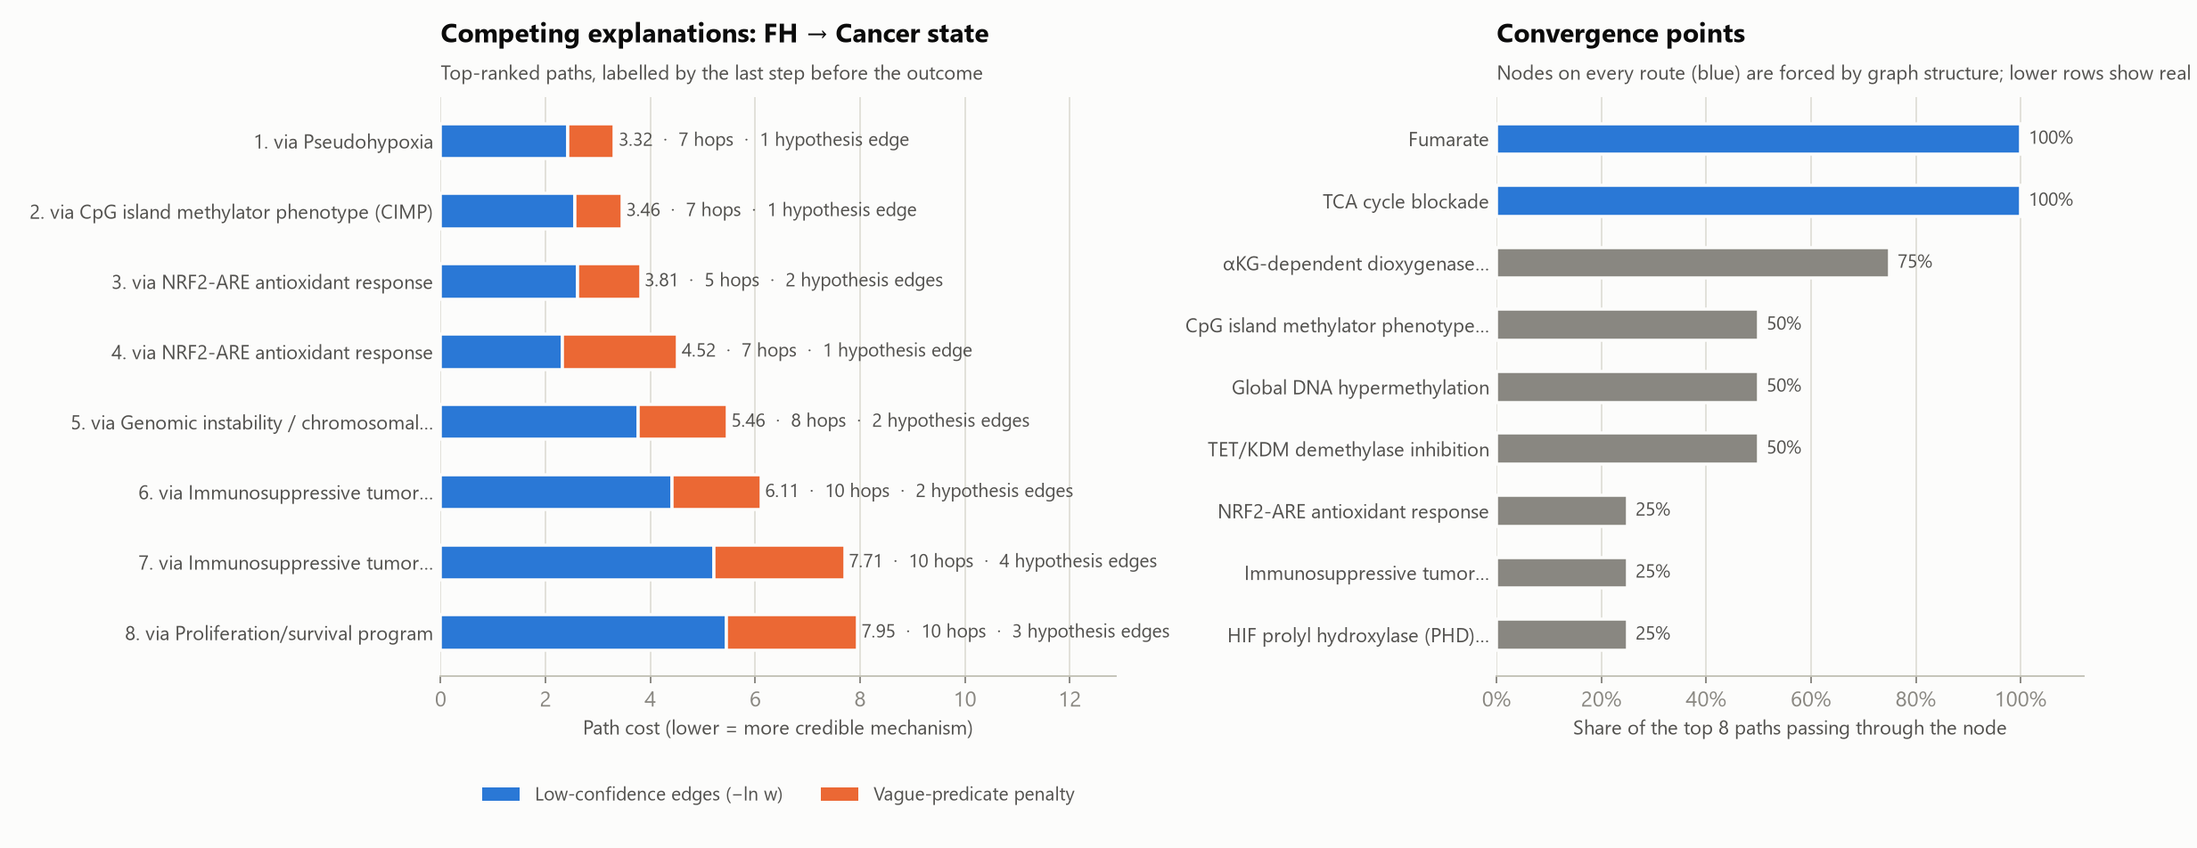
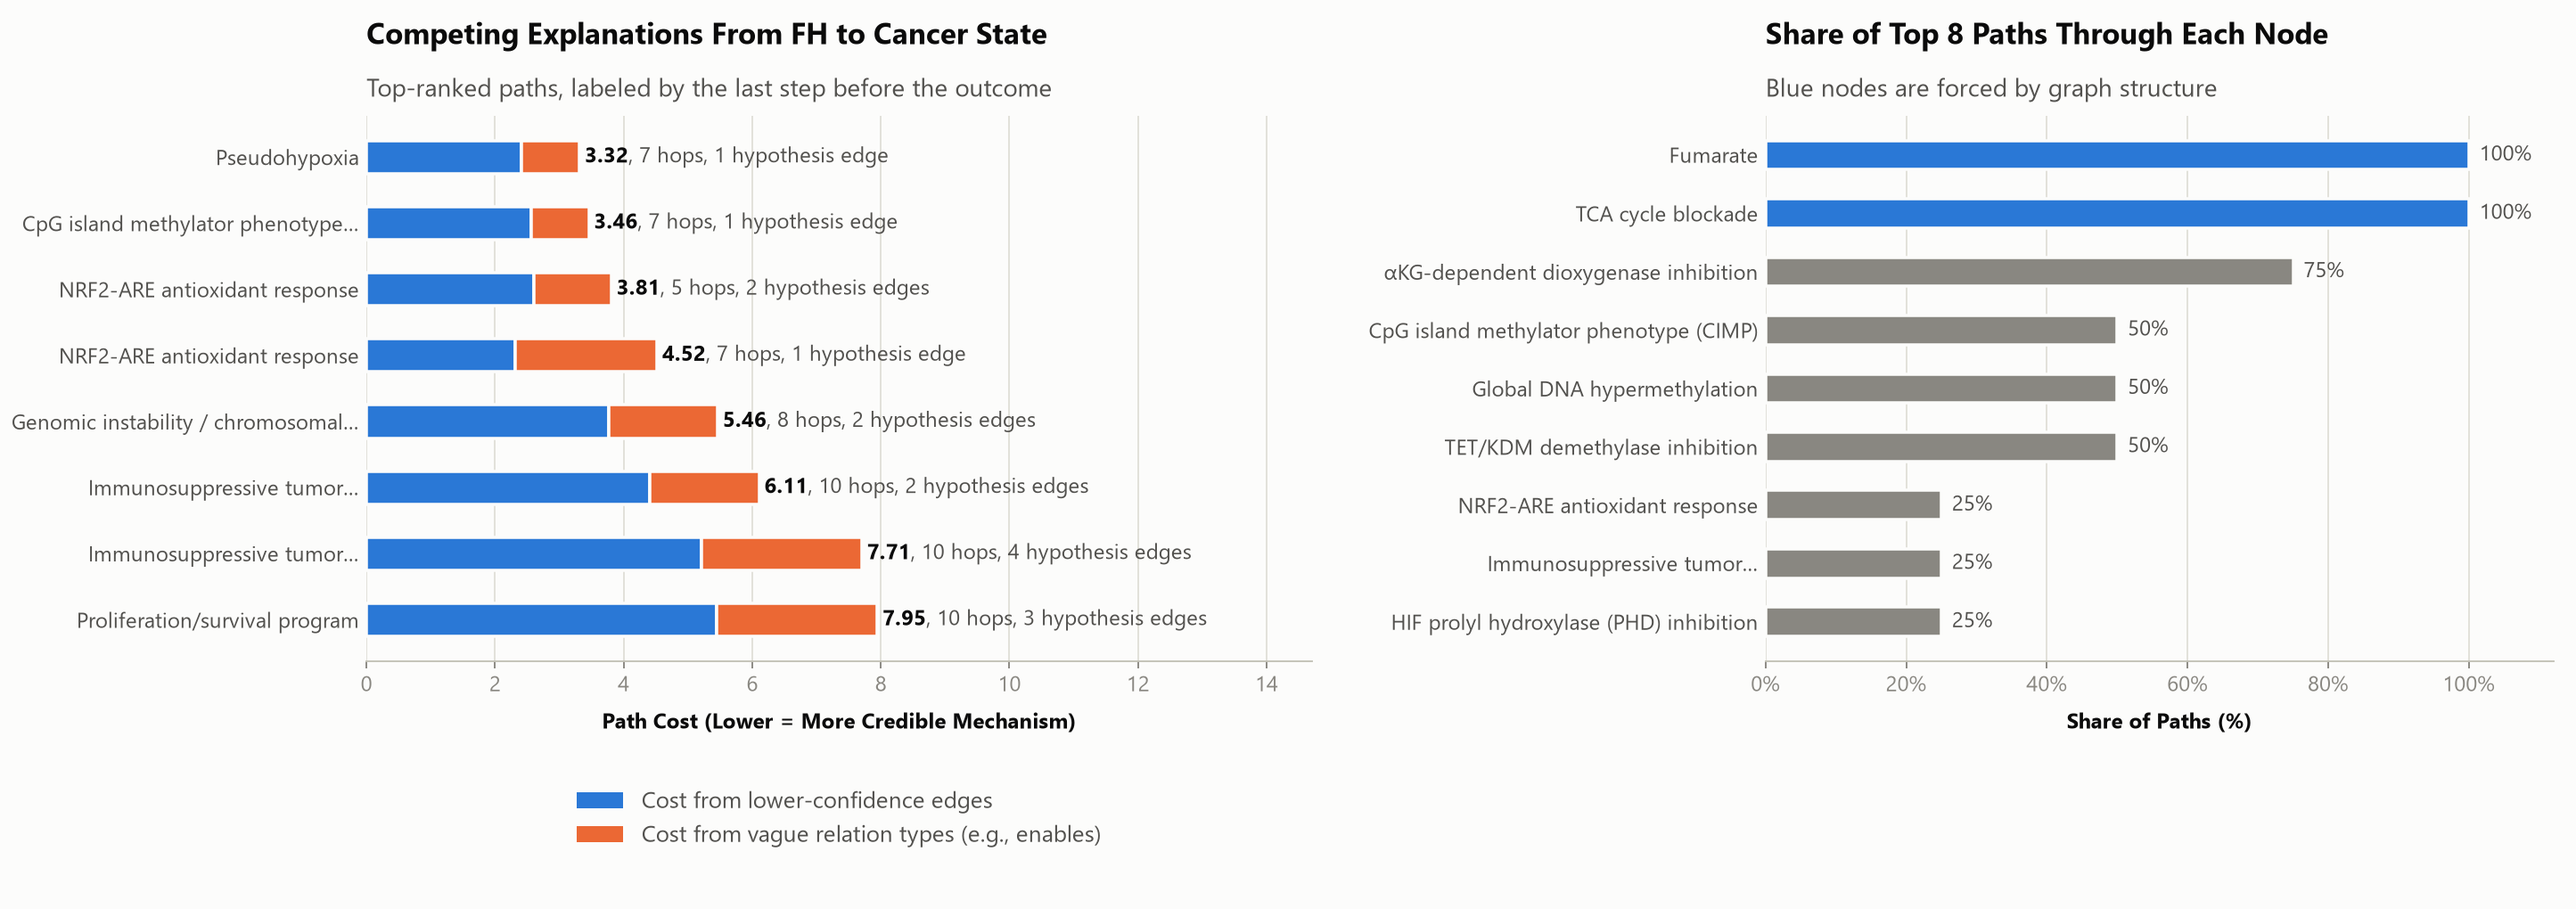
Larger figure text and clearer chart labels

diff --git a/src/fhrcc_mechanismkg/viz.py b/src/fhrcc_mechanismkg/viz.py
@@ -23,10 +23,11 @@ SURFACE, INK, INK2, MUTED, GRID, LINE = "#fcfcfb", "#0b0b0b", "#52514e", "#89878
 GROUP_COLOR = {"molecular": BLUE, "mechanism": AQUA, "phenotype": ORANGE}
 FONT = ["Segoe UI", "DejaVu Sans", "Arial"]
 
-# Type scale for panel headers: subheader is two sizes (pt) below the title, y labels four below
-TITLE_PT = 12.5
-SUBTITLE_PT = TITLE_PT - 2
-YLABEL_MIN_PT = TITLE_PT - 4  # y labels never go below this; larger existing sizes are kept
+# Type scale (pt) shared by every figure
+TITLE_PT = 14  # panel and figure titles, bold
+SUBTITLE_PT = 12  # subheaders, regular weight
+LABEL_PT = 10  # tick labels, annotations, axis titles (bold), node text
+LEGEND_PT = 11
 
 
 def _mpl():
@@ -44,9 +45,13 @@ def _mpl():
             "savefig.facecolor": SURFACE,
             "text.color": INK,
             "axes.edgecolor": LINE,
-            "axes.labelcolor": INK2,
+            "axes.labelcolor": INK,
+            "axes.labelsize": LABEL_PT,
+            "axes.labelweight": "bold",
             "xtick.color": MUTED,
             "ytick.color": INK2,
+            "xtick.labelsize": LABEL_PT,
+            "ytick.labelsize": LABEL_PT,
         }
     )
     return plt
@@ -63,6 +68,11 @@ def _edge_id(e) -> Tuple[str, str, str]:
     return (e.subject, e.predicate, e.object)
 
 
+def _panel_header(ax, title: str, subtitle: str) -> None:
+    ax.set_title(title, loc = "left", fontsize = TITLE_PT, fontweight = "bold", pad = 34)
+    ax.text(0, 1.035, subtitle, transform = ax.transAxes, fontsize = SUBTITLE_PT, color = INK2)
+
+
 def draw_overview(
     graph: Graph,
     out_path: str,
@@ -75,16 +85,16 @@ def draw_overview(
     from matplotlib.patches import FancyArrowPatch, FancyBboxPatch, Patch
 
     pos = layered_layout(graph)
-    sx, sy, bw, bh = 2.9, 1.15, 2.05, 0.66
+    sx, sy, bw, bh = 2.6, 1.02, 2.15, 0.68
     xy = {n: (p[0] * sx, -p[1] * sy) for n, p in pos.items()}
     xs = [p[0] for p in xy.values()]
     ys = [p[1] for p in xy.values()]
     width = max(xs) - min(xs) + bw + 1.0
-    height = (max(ys) - min(ys) + bh + 1.1) / 0.85  # axes occupy 85% of the figure height
+    height = (max(ys) - min(ys) + bh + 0.9) / 0.87  # axes occupy 87% of the figure height
 
     fig, ax = plt.subplots(figsize = (width, height))
     ax.set_xlim(min(xs) - bw / 2 - 0.5, max(xs) + bw / 2 + 0.5)
-    ax.set_ylim(min(ys) - bh / 2 - 0.55, max(ys) + bh / 2 + 0.55)
+    ax.set_ylim(min(ys) - bh / 2 - 0.25, max(ys) + bh / 2 + 0.25)
     ax.set_aspect("equal")
     ax.axis("off")
 
@@ -106,7 +116,7 @@ def draw_overview(
         ax.add_patch(p)
         patches[n.id] = p
         label = textwrap.fill(n.name, 22)
-        ax.text(x, y, label, ha = "center", va = "center", fontsize = 9, color = INK, zorder = 4, linespacing = 1.15)
+        ax.text(x, y, label, ha = "center", va = "center", fontsize = LABEL_PT, color = INK, zorder = 4, linespacing = 1.15)
 
     on_path: Set[Tuple[str, str, str]] = {_edge_id(s.edge) for s in highlight.steps} if highlight else set()
     for e in sorted(graph.edges, key = lambda e: _edge_id(e) in on_path):
@@ -146,15 +156,16 @@ def draw_overview(
         loc = "lower center",
         ncol = 4,
         frameon = False,
-        fontsize = 9,
+        fontsize = LEGEND_PT,
         labelcolor = INK2,
-        bbox_to_anchor = (0.5, 0.005),
+        bbox_to_anchor = (0.5, 0.004),
+        columnspacing = 1.6,
     )
-    fig.text(0.5, 0.985, title, ha = "center", va = "top", fontsize = 17, fontweight = "bold", color = INK)
+    fig.text(0.5, 0.988, title, ha = "center", va = "top", fontsize = TITLE_PT, fontweight = "bold", color = INK)
     if subtitle:
-        fig.text(0.5, 0.955, subtitle, ha = "center", va = "top", fontsize = 10.5, color = INK2)
-    fig.text(0.995, 0.055, "Line width = edge confidence", ha = "right", fontsize = 8.5, color = MUTED)
-    fig.subplots_adjust(left = 0, right = 1, top = 0.94, bottom = 0.09)
+        fig.text(0.5, 0.962, subtitle, ha = "center", va = "top", fontsize = SUBTITLE_PT, color = INK2)
+    fig.text(0.5, 0.06, "Line width = edge confidence", ha = "center", fontsize = LEGEND_PT, color = INK2)
+    fig.subplots_adjust(left = 0, right = 1, top = 0.945, bottom = 0.075)
     _save(fig, out_path)
 
 
@@ -171,52 +182,61 @@ def _clean_axes(ax) -> None:
     ax.set_axisbelow(True)
 
 
+def _plural(n: int, word: str) -> str:
+    return f"{n} {word}" if n == 1 else f"{n} {word}s"
+
+
 def draw_path_comparison(graph: Graph, paths: List[PathResult], out_path: str, source_name: str, target_name: str) -> None:
     plt = _mpl()
     from matplotlib.patches import Patch
 
-    fig, (a1, a2) = plt.subplots(1, 2, figsize = (14.5, 5.6), gridspec_kw = {"width_ratios": [1.15, 1]})
+    fig, (a1, a2) = plt.subplots(1, 2, figsize = (17, 6.0), gridspec_kw = {"width_ratios": [1.2, 1]})
 
     summ = [path_summary(p) for p in paths]
-    labels = []
-    for i, p in enumerate(paths, 1):
-        ids = p.node_ids()
-        labels.append(f"{i}. via {_short(graph, ids[-2], 40)}")
+    # Paths are ranked top to bottom; the label is the last step before the outcome
+    labels = [_short(graph, p.node_ids()[-2], 36) for p in paths]
     ypos = list(range(len(paths)))[::-1]
     conf = [s["confidence_cost"] for s in summ]
     pen = [s["predicate_penalty"] for s in summ]
-    h = 0.5
-    a1.barh(ypos, conf, height = h, color = BLUE, edgecolor = SURFACE, lw = 1.5, label = "Low confidence  (−ln w)")
-    a1.barh(ypos, pen, height = h, left = conf, color = ORANGE, edgecolor = SURFACE, lw = 1.5, label = "Vague predicate penalty")
+    a1.barh(ypos, conf, height = 0.5, color = BLUE, edgecolor = SURFACE, lw = 1.5)
+    a1.barh(ypos, pen, height = 0.5, left = conf, color = ORANGE, edgecolor = SURFACE, lw = 1.5)
     for y, s in zip(ypos, summ):
-        a1.text(s["cost"] + 0.08, y, f'{s["cost"]:.2f}  ·  {int(s["hops"])} hops  ·  {int(s["n_hypothesis_edges"])} hypothesis {"edge" if s["n_hypothesis_edges"] == 1 else "edges"}', va = "center", fontsize = 8.8, color = INK2)
+        t = a1.text(s["cost"] + 0.08, y, f'{s["cost"]:.2f}', va = "center", fontsize = LABEL_PT, fontweight = "bold", color = INK)
+        rest = f', {_plural(int(s["hops"]), "hop")}, {_plural(int(s["n_hypothesis_edges"]), "hypothesis edge")}'
+        a1.annotate(rest, xy = (1, 0.5), xycoords = t, xytext = (0, 0), textcoords = "offset points", va = "center", ha = "left", fontsize = LABEL_PT, color = INK2)
     a1.set_yticks(ypos)
-    a1.set_yticklabels(labels, fontsize = 9.5)
-    a1.set_xlim(0, max(s["cost"] for s in summ) * 1.62)
-    a1.set_xlabel("Path cost (lower = more credible mechanism)", fontsize = 9.5)
-    a1.set_title(f"Competing explanations: {source_name} → {target_name}", loc = "left", fontsize = 12.5, fontweight = "bold", pad = 26)
-    a1.text(0, 1.03, "Top-ranked paths, labelled by the last step before the outcome", transform = a1.transAxes, fontsize = 9.5, color = INK2)
+    a1.set_yticklabels(labels)
+    a1.set_xlim(0, max(s["cost"] for s in summ) * 1.85)
+    a1.set_xlabel("Path Cost (Lower = More Credible Mechanism)", labelpad = 8)
+    _panel_header(a1, f"Competing Explanations From {source_name} to {target_name.title()}", "Top-ranked paths, labeled by the last step before the outcome")
     _clean_axes(a1)
-    a1.legend(handles = [Patch(fc = BLUE, label = "Low-confidence edges (−ln w)"), Patch(fc = ORANGE, label = "Vague-predicate penalty")], loc = "upper center", bbox_to_anchor = (0.5, -0.16), ncol = 2, frameon = False, fontsize = 9, labelcolor = INK2)
+    a1.legend(
+        handles = [Patch(fc = BLUE, label = "Cost from lower-confidence edges"), Patch(fc = ORANGE, label = "Cost from vague relation types (e.g., enables)")],
+        loc = "upper center",
+        bbox_to_anchor = (0.5, -0.2),
+        ncol = 1,
+        frameon = False,
+        fontsize = LEGEND_PT,
+        labelcolor = INK2,
+    )
 
     conv = convergence(paths)[:9]
-    names = [_short(graph, n, 34) for n, _ in conv][::-1]
+    names = [_short(graph, n, 40) for n, _ in conv][::-1]
     vals = [v for _, v in conv][::-1]
     colors = [BLUE if v >= 0.999 else MUTED for v in vals]
     yy = list(range(len(vals)))
     a2.barh(yy, vals, height = 0.5, color = colors, edgecolor = SURFACE, lw = 1.5)
     for y, v in zip(yy, vals):
-        a2.text(v + 0.015, y, f"{v:.0%}", va = "center", fontsize = 9, color = INK2)
+        a2.text(v + 0.015, y, f"{v:.0%}", va = "center", fontsize = LABEL_PT, color = INK2)
     a2.set_yticks(yy)
-    a2.set_yticklabels(names, fontsize = 9.5)
+    a2.set_yticklabels(names)
     a2.set_xlim(0, 1.12)
     a2.xaxis.set_major_formatter(lambda v, _: f"{v:.0%}")
-    a2.set_xlabel(f"Share of the top {len(paths)} paths passing through the node", fontsize = 9.5)
-    a2.set_title("Convergence points", loc = "left", fontsize = 12.5, fontweight = "bold", pad = 26)
-    a2.text(0, 1.03, "Nodes on every route (blue) are forced by graph structure; lower rows show real branching", transform = a2.transAxes, fontsize = 9.5, color = INK2)
+    a2.set_xlabel("Share of Paths (%)", labelpad = 8)
+    _panel_header(a2, f"Share of Top {len(paths)} Paths Through Each Node", "Blue nodes are forced by graph structure")
     _clean_axes(a2)
 
-    fig.tight_layout(w_pad = 3)
+    fig.tight_layout(w_pad = 3, rect = (0, 0.0, 1, 1))
     _save(fig, out_path)
 
 
@@ -224,7 +244,7 @@ def draw_evidence_audit(graph: Graph, best: PathResult, out_path: str, source_na
     plt = _mpl()
     from matplotlib.patches import Patch
 
-    fig, (a1, a2) = plt.subplots(1, 2, figsize = (14.5, 5.4), gridspec_kw = {"width_ratios": [1, 1.1]})
+    fig, (a1, a2) = plt.subplots(1, 2, figsize = (17, 5.8), gridspec_kw = {"width_ratios": [1, 1.15]})
 
     counts = evidence_counts(graph)
     levels = EVIDENCE_ORDER[::-1]
@@ -233,14 +253,12 @@ def draw_evidence_audit(graph: Graph, best: PathResult, out_path: str, source_na
     cols = [ORANGE if l == "hypothesis" else BLUE for l in levels]
     a1.barh(ypos, vals, height = 0.5, color = cols, edgecolor = SURFACE, lw = 1.5)
     for y, v in zip(ypos, vals):
-        a1.text(v + 0.3, y, str(v) if v else "0 (none yet)", va = "center", fontsize = 9, color = INK2 if v else MUTED)
+        a1.text(v + 0.3, y, str(v) if v else "0 (none yet)", va = "center", fontsize = LABEL_PT, color = INK2 if v else MUTED)
     a1.set_yticks(ypos)
-    a1.set_yticklabels([l.replace("_", " ") for l in levels], fontsize = max(9.5, YLABEL_MIN_PT))
+    a1.set_yticklabels([l.replace("_", " ") for l in levels])
     a1.set_xlim(0, 25)
-    a1.set_xlabel("Number of edges", fontsize = 9.5)
-    n_hyp = counts["hypothesis"]
-    a1.set_title(f"{n_hyp} of {len(graph.edges)} Edges Are Hypotheses", loc = "left", fontsize = TITLE_PT, fontweight = "bold", pad = 26)
-    a1.text(0, 1.03, "Evidence level of every edge, roughly ordered from clinical (top) to hypothesis", transform = a1.transAxes, fontsize = SUBTITLE_PT, color = INK2)
+    a1.set_xlabel("Number of Edges", labelpad = 8)
+    _panel_header(a1, f'{counts["hypothesis"]} of {len(graph.edges)} Edges Are Hypotheses', "Evidence level per edge, roughly ordered clinical to hypothesis")
     _clean_axes(a1)
 
     steps = best.steps
@@ -249,20 +267,15 @@ def draw_evidence_audit(graph: Graph, best: PathResult, out_path: str, source_na
     cols2 = [ORANGE if is_hypothesis(s.edge) else BLUE for s in steps]
     a2.barh(ypos2, w, height = 0.5, color = cols2, edgecolor = SURFACE, lw = 1.5)
     for y, s in zip(ypos2, steps):
-        a2.text(s.edge.weight + 0.015, y, f"{s.edge.weight:.2f}", va = "center", fontsize = 9, color = INK2)
+        a2.text(s.edge.weight + 0.015, y, f"{s.edge.weight:.2f}", va = "center", fontsize = LABEL_PT, color = INK2)
     lab = [f"{_short(graph, s.edge.subject, 30)} → {_short(graph, s.edge.object, 30)}" for s in steps]
     a2.set_yticks(ypos2)
-    a2.set_yticklabels(lab, fontsize = max(8.8, YLABEL_MIN_PT))
+    a2.set_yticklabels(lab)
     a2.set_xlim(0, 1.0)
-    a2.set_xlabel("Edge confidence (weight)", fontsize = 9.5)
-    a2.set_title("Confidence Along the Lowest-Cost Path", loc = "left", fontsize = TITLE_PT, fontweight = "bold", pad = 26)
-    a2.text(
-        0, 1.03,
-        "Confident at the metabolic root, hypothesis-level at the final step",
-        transform = a2.transAxes, fontsize = SUBTITLE_PT, color = INK2,
-    )
+    a2.set_xlabel("Edge Confidence (Weight)", labelpad = 8)
+    _panel_header(a2, "Confidence Along the Lowest-Cost Path", "Confident at the root, hypothesis-level at the final step")
     _clean_axes(a2)
-    a2.legend(handles = [Patch(fc = BLUE, label = "Supported"), Patch(fc = ORANGE, label = "Hypothesis")], loc = "lower right", frameon = False, fontsize = 9, labelcolor = INK2)
+    a2.legend(handles = [Patch(fc = BLUE, label = "Supported"), Patch(fc = ORANGE, label = "Hypothesis")], loc = "lower right", frameon = False, fontsize = LEGEND_PT, labelcolor = INK2)
 
     fig.tight_layout(w_pad = 3)
     _save(fig, out_path)
@@ -275,7 +288,5 @@ def _save(fig, out_path: str) -> None:
     import matplotlib.pyplot as plt
 
     plt.close(fig)
-
-
 
 
